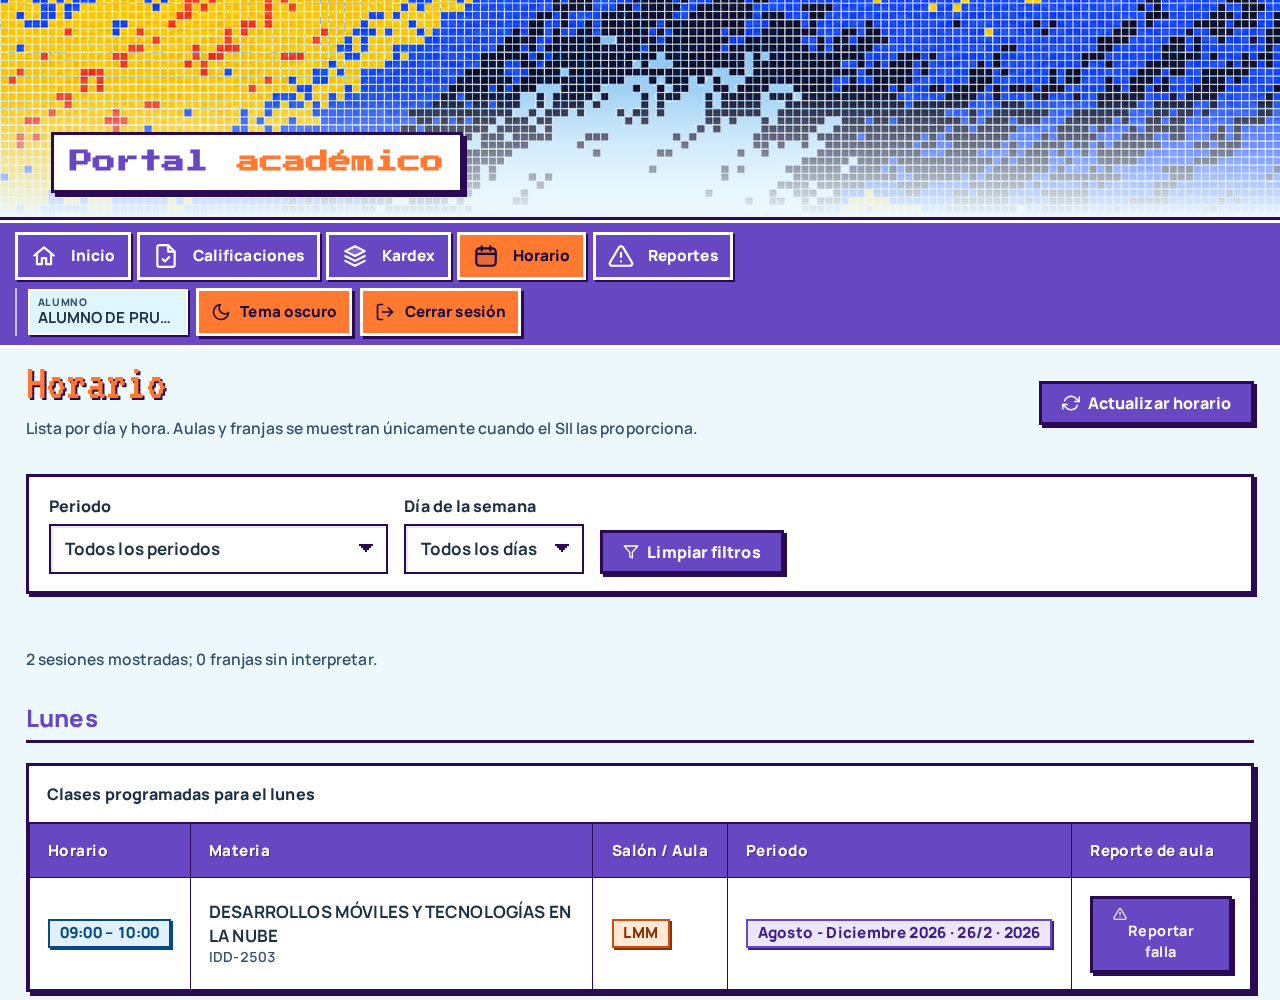
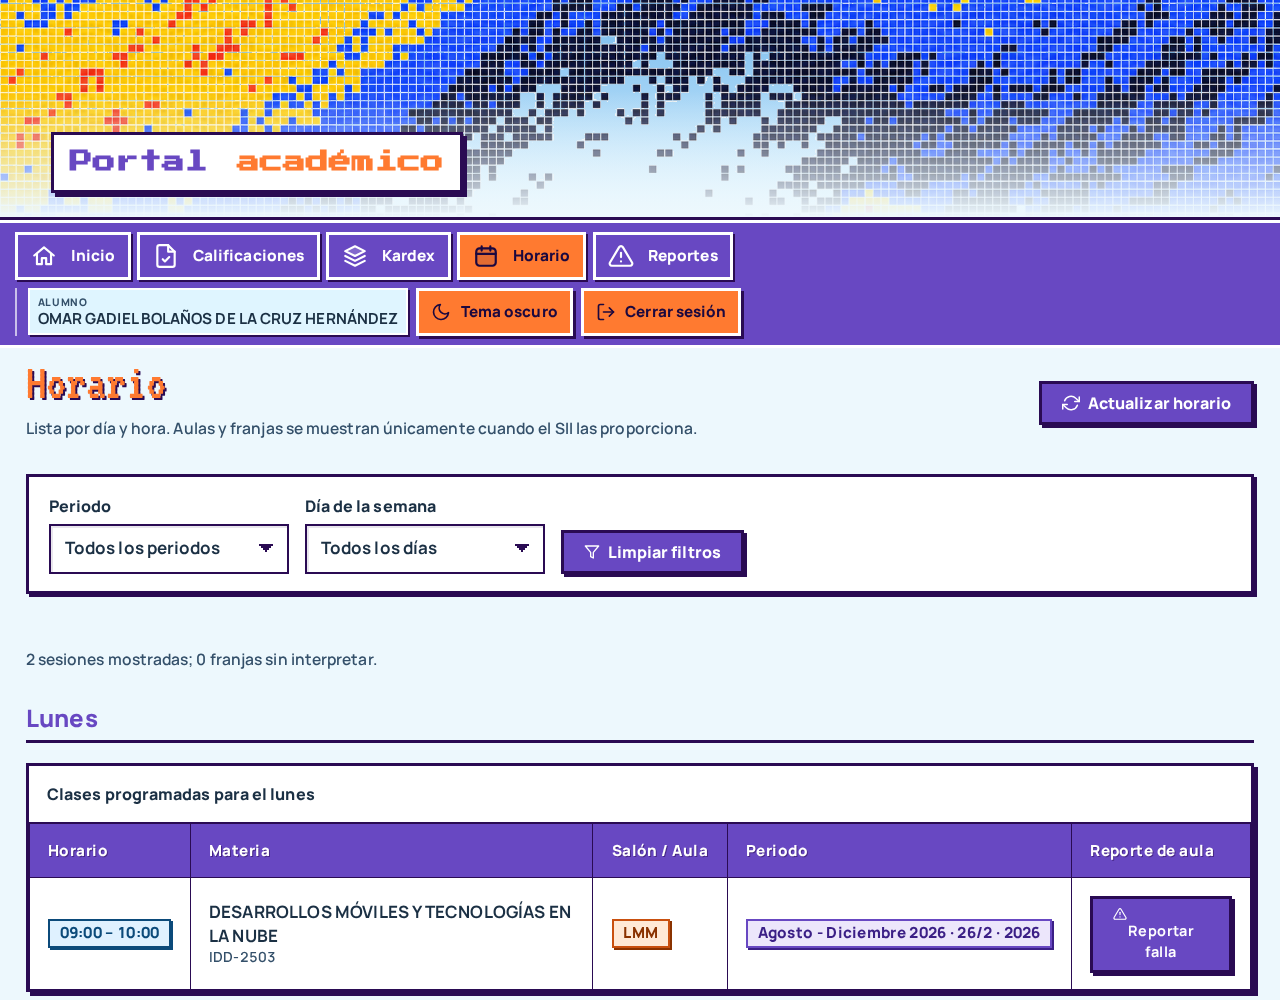
style: custom pixel dropdown lists and full-width student name chip

Changed region(s): [[0.0312, 0.279, 0.5938, 0.341], [0.2188, 0.496, 0.625, 0.589], [0.0625, 0.527, 0.1875, 0.558]]

diff --git a/src/styles/pixel-polish.css b/src/styles/pixel-polish.css
@@ -526,3 +526,119 @@ dialog[data-visual-modal][data-visual-style="pixelretro"][data-visual-theme] h2.
   line-height: 1.4;
 }
 dialog[data-visual-modal][data-visual-style="pixelretro"][data-visual-theme] h2.modal-title span { font-size: inherit; }
+
+/* ==========================================================================
+   Desplegables personalizados (select con appearance: base-select).
+   Navegadores sin soporte conservan el select nativo con flecha pixel.
+   ========================================================================== */
+@supports (appearance: base-select) {
+  [data-visual-shell][data-visual-style="pixelretro"] select,
+  dialog[data-visual-modal][data-visual-style="pixelretro"] select,
+  [data-visual-shell][data-visual-style="pixelretro"] select::picker(select),
+  dialog[data-visual-modal][data-visual-style="pixelretro"] select::picker(select) {
+    appearance: base-select;
+  }
+
+  [data-visual-shell][data-visual-style="pixelretro"] select,
+  dialog[data-visual-modal][data-visual-style="pixelretro"] select {
+    min-width: 15rem;
+    padding-right: 2.75rem;
+  }
+
+  [data-visual-shell][data-visual-style="pixelretro"] select::picker-icon,
+  dialog[data-visual-modal][data-visual-style="pixelretro"] select::picker-icon {
+    display: none;
+  }
+
+  [data-visual-shell][data-visual-style="pixelretro"] select::picker(select),
+  dialog[data-visual-modal][data-visual-style="pixelretro"] select::picker(select) {
+    position-area: block-end span-inline-end;
+    position-try-fallbacks: flip-block;
+    min-width: anchor-size(width);
+    margin: 6px 0 0;
+    padding: 0.35rem;
+    border: 3px solid var(--surface-border);
+    border-radius: 0;
+    background: var(--surface-bg);
+    box-shadow: 5px 5px 0 var(--surface-border);
+    max-height: min(26rem, 70vh);
+    overflow-y: auto;
+    opacity: 0;
+    transform: translateY(-6px);
+    transition: opacity var(--dur-med) var(--ease-out), transform var(--dur-med) var(--ease-out),
+      display var(--dur-med) allow-discrete, overlay var(--dur-med) allow-discrete;
+  }
+
+  [data-visual-shell][data-visual-style="pixelretro"] select:open::picker(select),
+  dialog[data-visual-modal][data-visual-style="pixelretro"] select:open::picker(select) {
+    opacity: 1;
+    transform: none;
+  }
+
+  @starting-style {
+    [data-visual-shell][data-visual-style="pixelretro"] select:open::picker(select),
+    dialog[data-visual-modal][data-visual-style="pixelretro"] select:open::picker(select) {
+      opacity: 0;
+      transform: translateY(-6px);
+    }
+  }
+
+  [data-visual-shell][data-visual-style="pixelretro"] select option,
+  dialog[data-visual-modal][data-visual-style="pixelretro"] select option {
+    display: flex;
+    align-items: center;
+    gap: 0.6rem;
+    margin: 2px 0;
+    padding: 0.5rem 0.85rem;
+    border: 2px solid transparent;
+    background: transparent;
+    color: var(--text-main);
+    font-size: 1.0625rem;
+    font-weight: 700;
+    cursor: pointer;
+    transition: background-color var(--dur-fast) var(--ease-out), border-color var(--dur-fast) var(--ease-out);
+  }
+
+  [data-visual-shell][data-visual-style="pixelretro"] select option:hover,
+  [data-visual-shell][data-visual-style="pixelretro"] select option:focus-visible,
+  dialog[data-visual-modal][data-visual-style="pixelretro"] select option:hover,
+  dialog[data-visual-modal][data-visual-style="pixelretro"] select option:focus-visible {
+    background: var(--row-hover);
+    border-color: var(--brand-primary);
+    outline: none;
+  }
+
+  [data-visual-shell][data-visual-style="pixelretro"] select option:checked,
+  dialog[data-visual-modal][data-visual-style="pixelretro"] select option:checked {
+    background: var(--brand-primary);
+    border-color: var(--surface-border);
+    color: var(--brand-contrast);
+  }
+
+  /* Marca pixel de la opción elegida. */
+  [data-visual-shell][data-visual-style="pixelretro"] select option::checkmark,
+  dialog[data-visual-modal][data-visual-style="pixelretro"] select option::checkmark {
+    order: 2;
+    margin-left: auto;
+    content: "■";
+    font-size: 0.7rem;
+  }
+}
+
+/* Chip del alumno: muestra el nombre completo y se adapta a cualquier largo. */
+[data-visual-shell][data-visual-style="pixelretro"] .visual-sidebar-footer {
+  flex-wrap: wrap;
+}
+[data-visual-shell][data-visual-style="pixelretro"] .vs-user-chip {
+  max-width: 100%;
+  min-width: 0;
+  flex: 0 1 auto;
+}
+[data-visual-shell][data-visual-style="pixelretro"] .vs-user-name {
+  max-width: none;
+  overflow: visible;
+  text-overflow: clip;
+  white-space: normal;
+  overflow-wrap: anywhere;
+  line-height: 1.25;
+}
